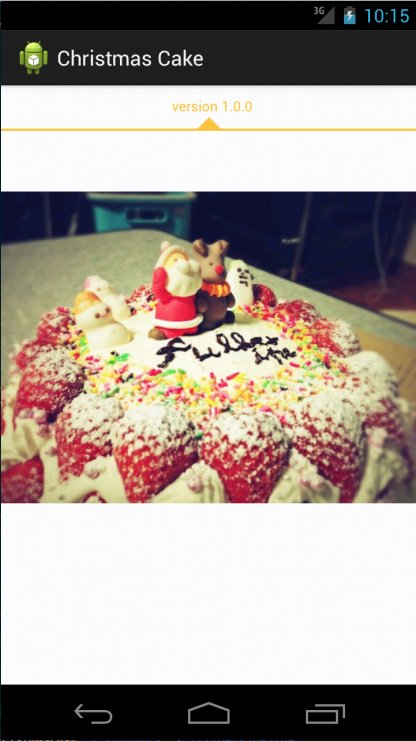
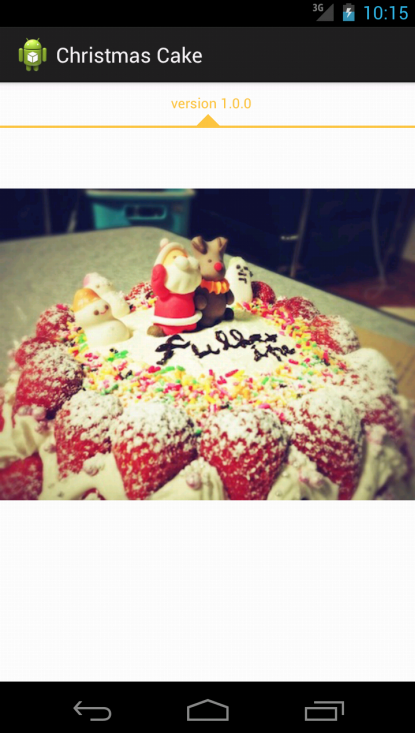
Fixed screenshot.

diff --git a/EATME.rst b/EATME.rst
@@ -7,7 +7,7 @@ Eat me if you can!
 Screenshot
 ~~~~~~~~~~
 
-.. image:: https://f.cloud.github.com/assets/1053958/30182/de634a7e-4e31-11e2-999b-05fb9296bf40.png
+.. image:: https://f.cloud.github.com/assets/1053958/30183/5f633b5c-4e32-11e2-92b2-feaf90aaef16.png
 
 
 Dependencies
